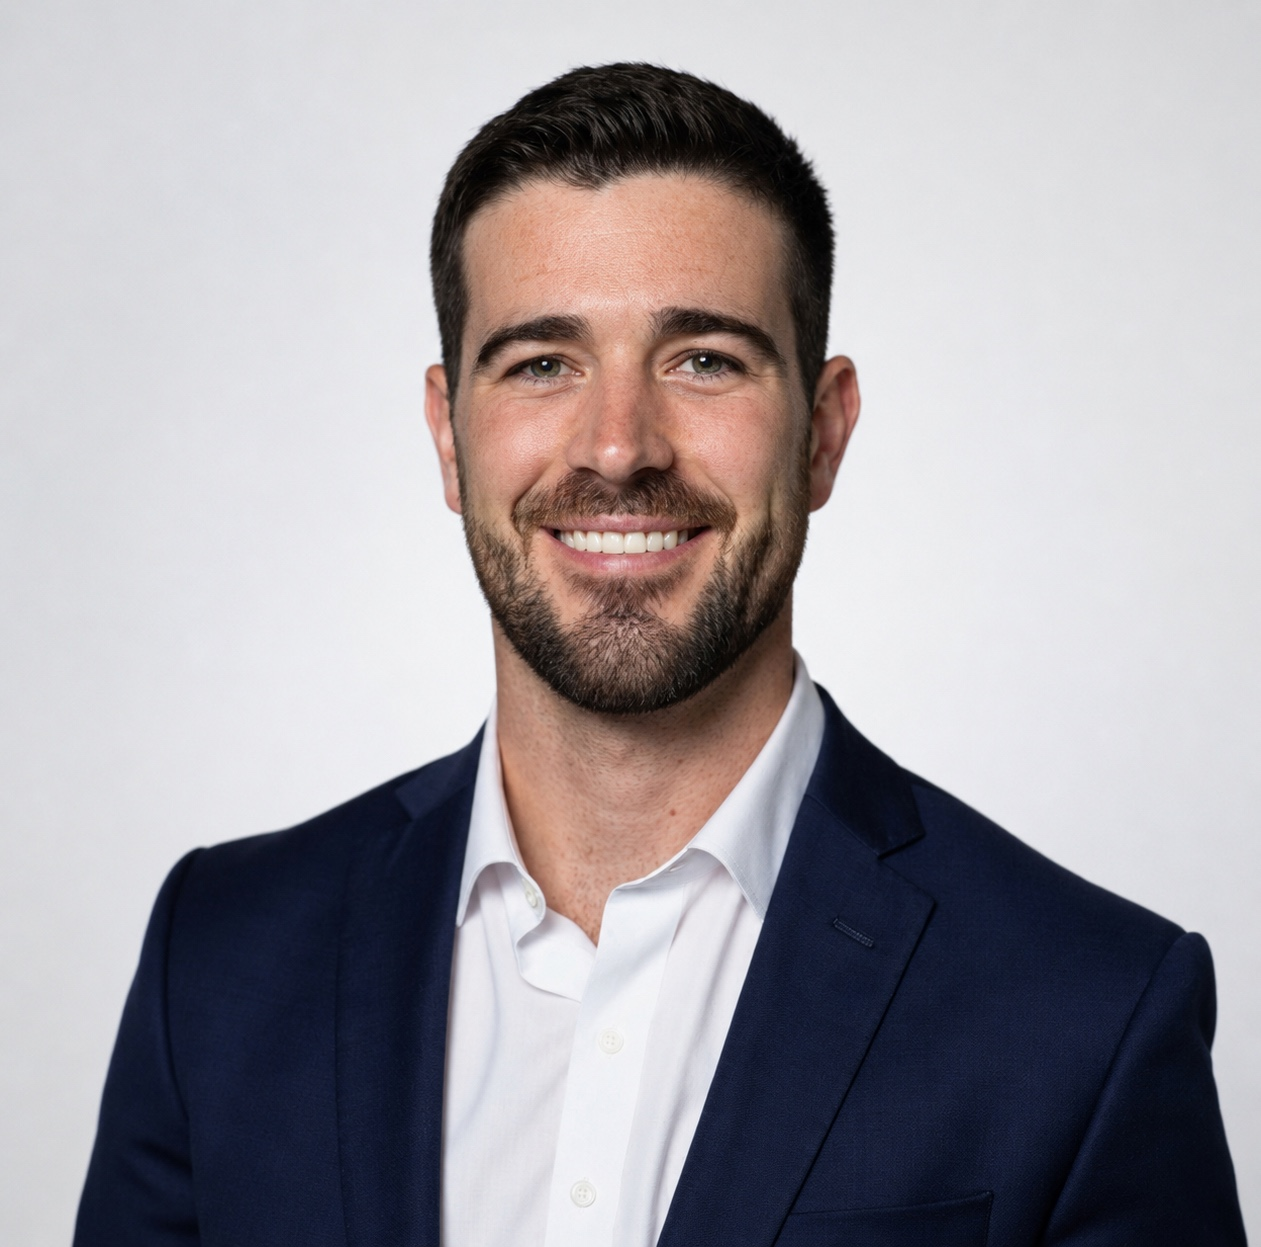
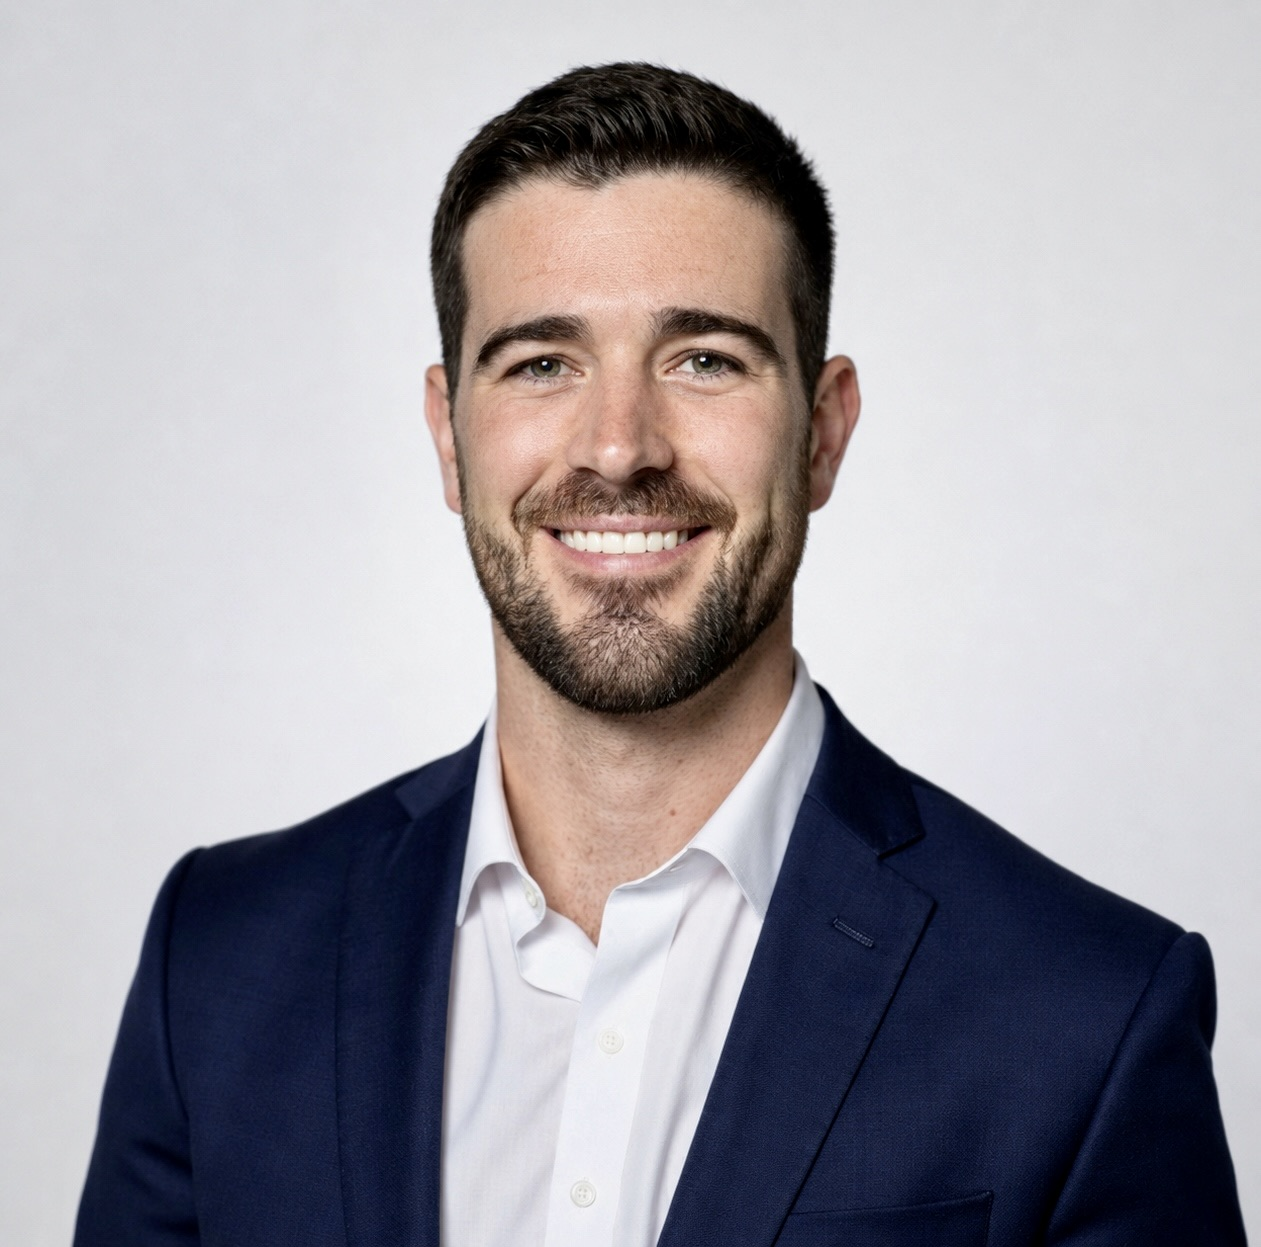
Update Dylan's headshot to newest photo, framed to match Bradley

Changed region(s): [[0.4021, 0.1219, 0.6186, 0.5485], [0.3711, 0.518, 0.5876, 0.6704], [0.3711, 0.3962, 0.4021, 0.4266]]

diff --git a/index.html b/index.html
@@ -1681,7 +1681,7 @@
       </div>
       <div class="story-photos reveal">
         <div class="story-photo">
-          <img class="story-photo-img" src="images/headshot-dylan-3.jpg" alt="Dylan Briscoe, Co-Founder of Briscoe Capital" width="600" height="800" loading="lazy" decoding="async">
+          <img class="story-photo-img" src="images/headshot-dylan-4.jpg" alt="Dylan Briscoe, Co-Founder of Briscoe Capital" width="600" height="800" loading="lazy" decoding="async">
           <div class="story-photo-caption">
             <strong>Dylan Briscoe</strong>
             <span>Co-Founder &amp; Partner</span>